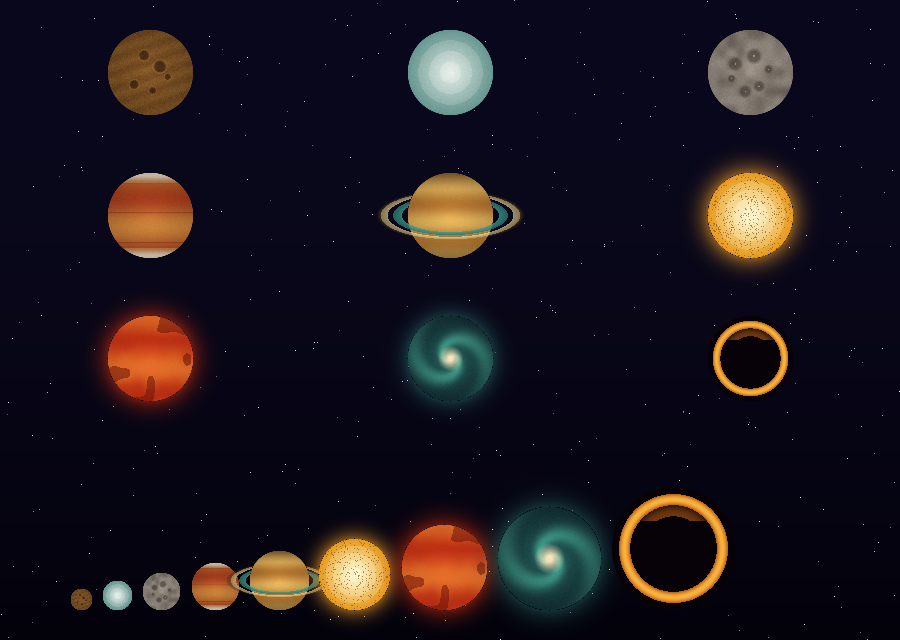
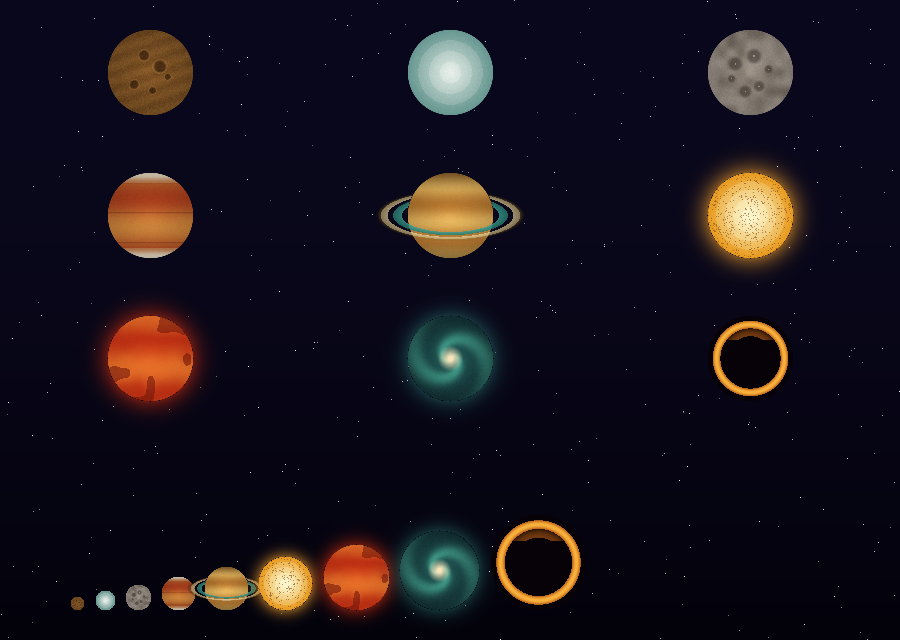
Compress top tiers + add in-run Supernova; HUD tidy
Tier sizing: the field should feel emptier after a good merge, not choked by
giants. A merge already frees area (every ratio < √2), but the old top tiers
were too big in absolute terms — a black hole at r=94 was ~half the field
width and left large unfillable gaps. Keep the well-differentiated low five
(12,16,21,27,35) and compress the top four to 44,54,65,77 (gentler ratios →
high merges reclaim even more space). Trade-off: runs run longer.

Supernova: an in-run, earned tool (NOT meta-progression). Charges purely from
combos within a run, resets every run, nothing saved/bought/gated. When ready,
the player fires it (tap the meter or press S) to vaporize Asteroid+Comet
debris — serving the core fantasy that a good clear empties the field. Full
headless test coverage; balance bot unaffected (bot never fires it).

HUD: replace flex-end with centered alignment; add the slim Supernova meter
strip below the header (subtle while charging, marigold + tappable when ready).

Regenerated docs/bodies.png from the new radii for the moodboard.

https://claude.ai/code/session_013Cwvy32xU5zCc3SGAyC3f6

Changed region(s): [[0.0622, 0.75, 0.8089, 0.9688]]

diff --git a/merge.js b/merge.js
@@ -22,10 +22,10 @@
     { name: 'Moon',       emoji: '🌑', r: 21,  color: '#cfd2d6' },
     { name: 'Planet',     emoji: '🌍', r: 27,  color: '#4aa3ff' },
     { name: 'Ringed',     emoji: '🪐', r: 35,  color: '#e0b86b' },
-    { name: 'Dwarf Star', emoji: '⭐', r: 45,  color: '#ffe066' },
-    { name: 'Star',       emoji: '☀️', r: 58,  color: '#ff9f40' },
-    { name: 'Galaxy',     emoji: '🌌', r: 74,  color: '#b56cff' },
-    { name: 'Black Hole', emoji: '⚫', r: 94,  color: '#1a1030' },
+    { name: 'Dwarf Star', emoji: '⭐', r: 44,  color: '#ffe066' },
+    { name: 'Star',       emoji: '☀️', r: 54,  color: '#ff9f40' },
+    { name: 'Galaxy',     emoji: '🌌', r: 65,  color: '#b56cff' },
+    { name: 'Black Hole', emoji: '⚫', r: 77,  color: '#1a1030' },
   ];
   const MAX_TIER = TIERS.length - 1;
   // triangular-ish scoring: bigger merges are worth disproportionately more
@@ -261,10 +261,35 @@
     bodies: [], current: null, next: null,
     score: 0, best: 0, over: false,
     overTimer: 0, dropTimer: 0, combo: 0, comboTimer: 0,
+    charge: 0, superReady: false, // Supernova: earned by combos, no meta-currency
     rng: mulberry32(Date.now() >>> 0),
     idSeq: 1,
     events: [], // {type, x, y, tier} consumed by the renderer for juice
   };
+
+  // ---- Supernova: an in-run, earned tool — NOT meta-progression ------------
+  // It charges purely from combos within a run and resets every run; nothing is
+  // saved, bought, or gated behind money. When ready, the player fires it to
+  // vaporize the small debris (Asteroids + Comets) that clutters the field —
+  // serving the core fantasy: a good merge/clear makes the field emptier.
+  const CHARGE_MAX = 18;
+  function addCharge(n) {
+    if (world.superReady) return;          // don't overfill a ready meter
+    world.charge = Math.min(CHARGE_MAX, world.charge + n);
+    if (world.charge >= CHARGE_MAX) world.superReady = true;
+  }
+  function useSupernova() {
+    if (!world.superReady || world.over) return false;
+    const before = world.bodies.length;
+    world.bodies = world.bodies.filter(b => b.tier > 1); // blast Asteroids+Comets
+    const cleared = before - world.bodies.length;
+    world.score += cleared * 30;
+    if (world.score > world.best) world.best = world.score;
+    world.charge = 0; world.superReady = false;
+    world.overTimer = 0; // a clear relieves the danger line
+    world.events.push({ type: 'supernova', cleared });
+    return true;
+  }
 
   function pickTier() { return DROP_TIERS[Math.floor(world.rng() * DROP_TIERS.length)]; }
 
@@ -272,6 +297,7 @@
     world.bodies = [];
     world.score = 0; world.over = false; world.overTimer = 0;
     world.dropTimer = 0; world.combo = 0; world.comboTimer = 0;
+    world.charge = 0; world.superReady = false;
     world.idSeq = 1; world.events = [];
     if (seed != null) world.rng = mulberry32(seed >>> 0);
     world.next = pickTier();
@@ -396,6 +422,7 @@
     }
     if (merged > 0) {
       world.combo += merged; world.comboTimer = 1.1;
+      addCharge(merged + Math.max(0, world.combo - 1)); // chains charge faster
       const mult = 1 + (world.combo - 1) * 0.5;
       // score the new tiers created
       for (const ev of world.events) {
@@ -451,7 +478,7 @@
   // expose the headless core for tests
   const core = { world, TIERS, MAX_TIER, POINTS, FIELD_W, FIELD_H, DANGER_Y,
     reset, step, dropCurrent, moveCurrent, spawnCurrent, pickTier, mulberry32,
-    TIER_ART, GLOW_MAX, shadeBody };
+    TIER_ART, GLOW_MAX, shadeBody, useSupernova, CHARGE_MAX };
   if (typeof window !== 'undefined') window.__cosmic = core;
   if (typeof module !== 'undefined' && module.exports) module.exports = core;
 
@@ -467,6 +494,7 @@
   const elScore = $('score'), elBest = $('best'), elNext = $('next-canvas');
   const elCombo = $('combo'), elOver = $('gameover'), elFinal = $('final-score');
   const elNewBest = $('new-best');
+  const elNova = $('nova'), elNovaFill = $('nova-fill');
 
   // ---- procedural sprite cache (bake shadeBody once per tier) --------------
   // Each tier is rasterized to an offscreen canvas via the shared shader, then
@@ -506,7 +534,7 @@
 
   // next-piece preview (mini sprite in the HUD)
   const nctx = (elNext && elNext.getContext) ? elNext.getContext('2d') : null;
-  let nextShown = -1;
+  let nextShown = -1, novaShown = null;
   function drawNext() {
     if (!nctx) return;
     const w = elNext.width, h = elNext.height;
@@ -623,6 +651,10 @@
     else if (e.key === 'ArrowRight') moveCurrent(world.current.x + 18);
     else if (e.key === ' ' || e.key === 'ArrowDown') { e.preventDefault(); dropCurrent(); }
   });
+  // Supernova: fire with the meter (tap) or the 'S' key when charged.
+  function fireSupernova() { if (useSupernova()) blip(120, 0.15, 'sawtooth', 0.2); }
+  if (elNova) elNova.addEventListener('click', fireSupernova);
+  window.addEventListener('keydown', e => { if (e.key === 's' || e.key === 'S') fireSupernova(); });
   const restart = () => { reset(); elOver.classList.add('hidden'); };
   $('restart').addEventListener('click', restart);
   $('muteBtn').addEventListener('click', () => { muted = !muted; $('muteBtn').setAttribute('aria-pressed', muted ? 'true' : 'false'); if (!muted) blip(660, 0.1); });
@@ -644,6 +676,13 @@
         for (let i = 0; i < 10; i++) setTimeout(() => burst(FIELD_W * Math.random(), FIELD_H * Math.random(), 40, '#fff'), i * 40);
         shake = 26; floatScore(FIELD_W / 2, FIELD_H / 2, 'BIG BANG  +' + ev.bonus, '#ff8ad0');
         [262, 330, 392, 523, 659].forEach((f, i) => setTimeout(() => blip(f, 0.2, 'triangle', 0.2), i * 90));
+      } else if (ev.type === 'supernova') {
+        // a shockwave from the top sweeping the field; debris flares out
+        shake = Math.min(shake + 16, 26);
+        shockwave(FIELD_W / 2, SPAWN_Y, FIELD_W * 1.1, '#f0883e');
+        for (let i = 0; i < 18; i++) burst(FIELD_W * Math.random(), FIELD_H * (0.2 + 0.7 * Math.random()), 22, '#f0883e');
+        if (ev.cleared > 0) floatScore(FIELD_W / 2, FIELD_H / 2, 'SUPERNOVA  +' + ev.cleared * 30, '#ffd9a0');
+        [392, 523, 659, 784].forEach((f, i) => setTimeout(() => blip(f, 0.18, 'triangle', 0.16), i * 70));
       } else if (ev.type === 'gameover') {
         elFinal.textContent = world.score;
         const isNewBest = world.score > storedBest && world.score > 0;
@@ -744,6 +783,16 @@
     elBest.textContent = world.best;
     if (world.next !== nextShown) { drawNext(); nextShown = world.next; }
     elCombo.textContent = world.combo > 1 ? 'COMBO ×' + world.combo : '';
+    if (elNova) {
+      elNovaFill.style.width = Math.min(100, world.charge / CHARGE_MAX * 100) + '%';
+      const ready = world.superReady;
+      elNova.classList.toggle('ready', ready);
+      elNova.disabled = !ready;
+      if (ready !== novaShown) {
+        elNova.querySelector('#nova-label').textContent = ready ? 'SUPERNOVA · READY' : 'SUPERNOVA';
+        novaShown = ready;
+      }
+    }
   }
 
   // ---- main loop (fixed-timestep accumulator) ------------------------------

diff --git a/merge.css b/merge.css
@@ -61,7 +61,7 @@ body { display: flex; flex-direction: column; }
 .orbit { width: 15px; height: 15px; border: 1.5px solid var(--marigold); border-radius: 50%; position: relative; flex: none; }
 .orbit::after { content: ""; position: absolute; width: 4px; height: 4px; background: var(--teal); border-radius: 50%; top: -2px; left: 50%; }
 
-.hud-stats { display: flex; align-items: flex-end; gap: 16px; }
+.hud-stats { display: flex; align-items: center; gap: 16px; }
 .stat { display: flex; flex-direction: column; align-items: flex-end; line-height: 1; }
 .hud-label { font-size: 8px; letter-spacing: 2.5px; color: var(--muted); margin-bottom: 3px; }
 .hud-value { font-size: 26px; font-weight: 600; color: var(--marigold); font-variant-numeric: tabular-nums; }
@@ -84,6 +84,28 @@ body { display: flex; flex-direction: column; }
 #muteBtn .slash { display: none; }
 #muteBtn[aria-pressed="true"] .slash { display: block; }
 #muteBtn[aria-pressed="true"] .waves { opacity: 0.25; }
+
+/* supernova meter — charged by combos, fired to clear small debris.
+   Subtle while charging; turns marigold + becomes tappable when ready. */
+#nova {
+  position: relative; z-index: 2; display: flex; align-items: center; justify-content: center;
+  margin: 6px 16px 0; height: 16px; padding: 0;
+  border: 1px solid var(--line); border-radius: 8px; background: none;
+  overflow: hidden; cursor: default; font-family: var(--mono);
+  -webkit-appearance: none; appearance: none;
+}
+#nova-fill {
+  position: absolute; left: 0; top: 0; bottom: 0; width: 0;
+  background: var(--teal); opacity: .22; transition: width .18s ease-out;
+}
+#nova-label { position: relative; font-size: 8px; letter-spacing: 3px; color: var(--muted); }
+#nova.ready { cursor: pointer; border-color: var(--marigold); animation: novaPulse 1.3s ease-in-out infinite; }
+#nova.ready #nova-fill { width: 100% !important; background: var(--marigold); opacity: .92; }
+#nova.ready #nova-label { color: var(--ink); font-weight: 600; }
+@keyframes novaPulse {
+  0%, 100% { box-shadow: 0 0 0 0 rgba(240,136,62,0); }
+  50%      { box-shadow: 0 0 10px 0 rgba(240,136,62,.45); }
+}
 
 #combo {
   position: relative; z-index: 2; text-align: center; height: 20px;

diff --git a/test/cosmic.test.js b/test/cosmic.test.js
@@ -105,6 +105,24 @@ let allLow = true;
 for (let i = 0; i < 200; i++) { if (C.pickTier() > 3) allLow = false; }
 ok(allLow, 'only low tiers (0-3) ever spawn — you build up, you are never handed a win');
 
+// --- 10. Supernova: an in-run, earned clear (no meta-progression) --------
+C.reset(11);
+ok(C.useSupernova() === false, 'Supernova does nothing until charged');
+// charge it directly, then fire it on a cluttered field
+C.world.charge = C.CHARGE_MAX; C.world.superReady = true;
+C.world.bodies = [
+  { id: 970, tier: 0, x: 100, y: 500, vx: 0, vy: 0, age: 1 }, // debris
+  { id: 971, tier: 1, x: 140, y: 500, vx: 0, vy: 0, age: 1 }, // debris
+  { id: 972, tier: 4, x: 200, y: 500, vx: 0, vy: 0, age: 1 }, // survives
+  { id: 973, tier: 6, x: 300, y: 500, vx: 0, vy: 0, age: 1 }, // survives
+];
+C.world.score = 0;
+ok(C.useSupernova() === true, 'Supernova fires when charged');
+ok(C.world.bodies.length === 2 && C.world.bodies.every(b => b.tier > 1), 'Supernova clears only small debris (tiers 0-1)');
+ok(C.world.score > 0, 'Supernova awards points for cleared debris (got ' + C.world.score + ')');
+ok(C.world.superReady === false && C.world.charge === 0, 'firing resets the charge meter');
+ok(C.useSupernova() === false, 'cannot fire again until recharged');
+
 // --- summary -------------------------------------------------------------
 console.log(`\n${pass} passed, ${fail} failed`);
 process.exit(fail ? 1 : 0);

diff --git a/index.html b/index.html
@@ -38,6 +38,11 @@
     </div>
   </header>
 
+  <button id="nova" type="button" aria-label="Fire supernova" disabled>
+    <span id="nova-fill"></span>
+    <span id="nova-label">SUPERNOVA</span>
+  </button>
+
   <div id="combo"></div>
 
   <main id="stage">